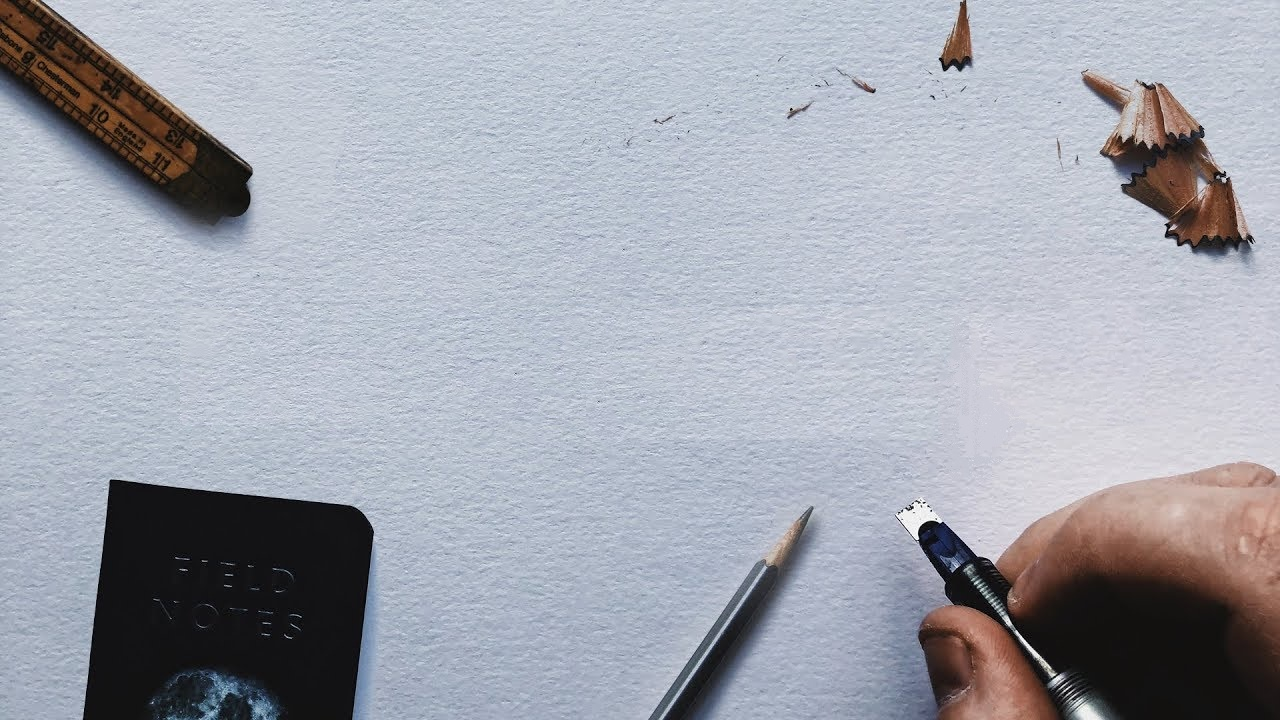
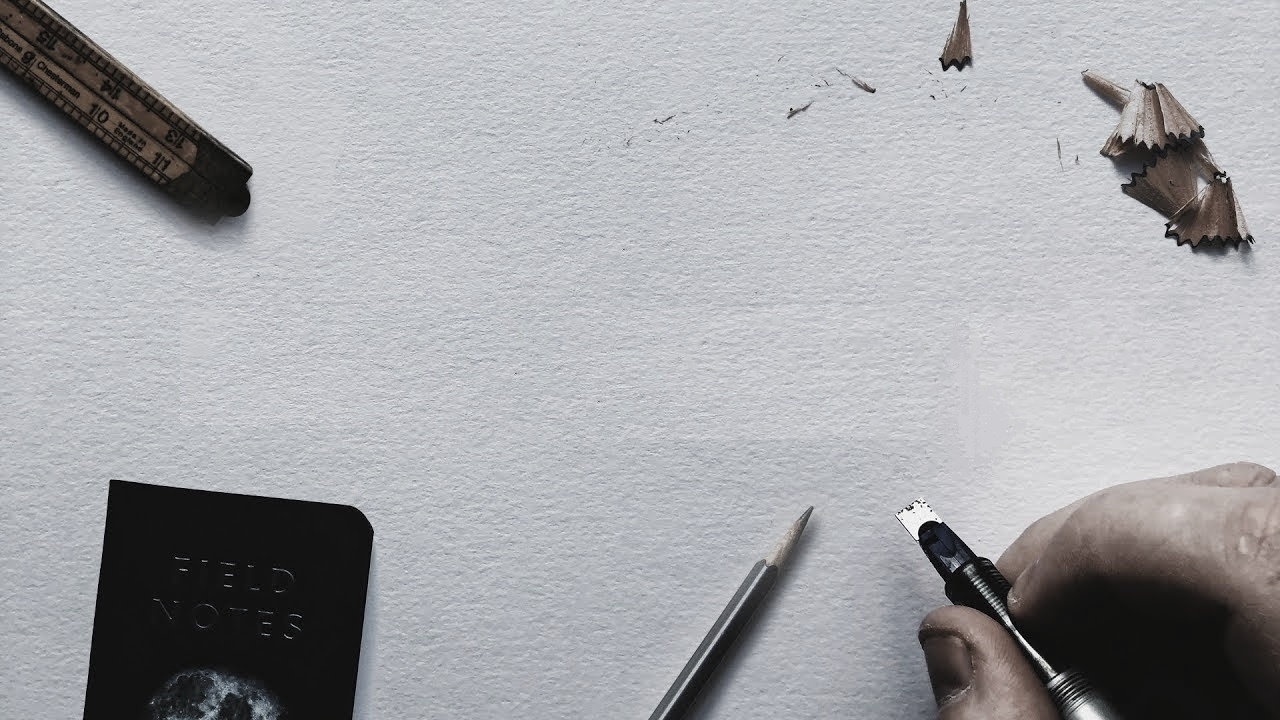
fix: aos

diff --git a/src/component/About/About.js b/src/component/About/About.js
@@ -1,20 +1,23 @@
 import React from 'react';
 import './About.scss';
-import {Divider} from 'antd';
 import ava from './assets/ava.png';
 const About = () => {
   return (
     <div>
       <div id="about" className="about-section flex-column">
-        <Divider orientation="left" className="divider">
-          little about me
-        </Divider>
+        <h2 className="divider">little about me</h2>
         <div className="about-me flex-row">
-          <img className="about-me__ava" src={ava} alt="avatar" />
+          <img
+            className="about-me__ava"
+            src={ava}
+            alt="avatar"
+            data-aos="zoom-out"
+            data-aos-duration="600"
+          />
           <div className="flex-column">
             <div
               className="about-me__text"
-              data-aos="zoom-out-left"
+              data-aos="fade-up"
               data-aos-duration="500">
               <h3>education</h3>I graduated from BNTU with a specialty in
               automated design system faculty of information technologies and
@@ -22,7 +25,7 @@ const About = () => {
             </div>
             <div
               className="about-me__text"
-              data-aos="zoom-out-left"
+              data-aos="fade-down"
               data-aos-duration="500">
               <h3>work</h3> I worked at the United institute of informatic
               problems, in the laboratory of automation of technological

diff --git a/src/component/Projects/Card/Card.scss b/src/component/Projects/Card/Card.scss
@@ -1,27 +1,35 @@
-  div.card {
-    width: 300px;
-    margin-right: 20px;
+.filter {
+  filter: saturate(0.2);
 
-    @media screen and (max-width: 400px) {
-      width: 90%;
-      margin-bottom: 20px;
-    }
-
-    a {
-      color: black;
-    }
-
-    a:hover {
-      color: blue;
-    }
-
-    .ant-card-actions {
-      border-bottom: 2px solid #a7a0a0;
-    }
-
-    &__img {
-      height: 90%;
-    }
-
-
+  &:hover {
+    filter: none;
   }
+}
+
+div.card {
+  width: 300px;
+  margin-right: 20px;
+
+  @media screen and (max-width: 400px) {
+    width: 90%;
+    margin-bottom: 20px;
+  }
+
+  a {
+    color: black;
+  }
+
+  a:hover {
+    color: blue;
+  }
+
+  .ant-card-actions {
+    border-bottom: 2px solid #a7a0a0;
+  }
+
+  &__img {
+    height: 90%;
+  }
+
+
+}

diff --git a/src/component/Projects/Projects.js b/src/component/Projects/Projects.js
@@ -1,6 +1,5 @@
 import React, {Component} from 'react';
 import './Projects.scss';
-import {Divider} from 'antd';
 import Card from './Card/Card.js';
 
 export default class Projects extends Component {
@@ -10,9 +9,7 @@ export default class Projects extends Component {
   render() {
     return (
       <div id="projects" className="flex-column">
-        <Divider orientation="left" className="divider">
-          projects
-        </Divider>
+        <div className="divider">projects</div>
         <div className="projects-section flex-row">
           {this.state.projects.map(project => {
             return <Card key={project.imgName} {...project} />;

diff --git a/src/component/Header/Hello/Hello.scss b/src/component/Header/Hello/Hello.scss
@@ -5,18 +5,23 @@
   margin: auto;
   box-shadow: 0px -10px 10px 15px rgba(0, 0, 0, 0.5),
     inset 0px -7px 15px 0px rgba(0, 0, 0, 0.5);
-  filter: saturate(70%);
 
   .profile-detail {
     margin: 0px;
     margin-top: 200px;
-    margin-bottom: 100px;
+    margin-bottom: 50px;
     width: 80%;
     text-align: center;
     text-shadow: 2px 4px 3px rgba(0, 0, 0, 0.3);
     color: black;
     font-weight: 500;
     -webkit-text-stroke: 0.1px #3a3a3a;
+
+    @media screen and (max-width: 750px) {
+      [data-aos=zoom-out-right] {
+        transform: 0;
+      }
+    }
 
     .name {
       font-size: 2.5vw;

diff --git a/src/component/Header/Navigation/Navigation.scss b/src/component/Header/Navigation/Navigation.scss
@@ -9,6 +9,11 @@
   z-index: 100;
   background: url(../../../assets/images/bg.png);
   box-shadow: 0px -10px 10px 15px rgba(0, 0, 0, 0.5);
+  font-size: 1.7vh;
+
+  @media screen and (max-width: 400px) {
+    margin-right: 10px;
+  }
 
   &>a {
     margin-left: 20px;
@@ -20,10 +25,16 @@
       color: grey;
     }
 
+    &:first-child {
+      @media screen and (max-width: 500px) {
+        margin-left: 20px;
+      }
+    }
+
     &:last-child {
       margin-right: 100px;
 
-      @media screen and (max-width: 400px) {
+      @media screen and (max-width: 500px) {
         margin-right: 10px;
       }
 

diff --git a/src/component/Contacts/Contacts.js b/src/component/Contacts/Contacts.js
@@ -1,6 +1,5 @@
 import React, {Component} from 'react';
 import './Contacts.scss';
-import {Divider} from 'antd';
 import {Form, Input, Button, message} from 'antd';
 import {SendOutlined} from '@ant-design/icons';
 
@@ -67,9 +66,7 @@ export default class Contacts extends Component {
   render() {
     return (
       <div id="contacts" className="contacts-section">
-        <Divider orientation="left" className="divider">
-          contacts
-        </Divider>
+        <div className="divider">contacts</div>
 
         <Form
           ref={this.form}

diff --git a/src/component/Header/Hello/Hello.js b/src/component/Header/Hello/Hello.js
@@ -24,12 +24,12 @@ const Hello = () => {
         </p>
       </div>
       <Button
+        data-aos="zoom-out"
+        data-aos-duration="500"
         className="cv"
         type="link"
         target="_blank"
-        href="https://drive.google.com/open?id=1hkyVRZEgIJPPvPhPVTmjhMJaHwFXb_90"
-        data-aos="zoom-out-left"
-        data-aos-duration="500">
+        href="https://drive.google.com/open?id=1hkyVRZEgIJPPvPhPVTmjhMJaHwFXb_90">
         link to my CV
       </Button>
     </div>

diff --git a/src/component/Projects/Projects.scss b/src/component/Projects/Projects.scss
@@ -1,10 +1,14 @@
 #projects {
   width: 90%;
   margin: auto;
-  background: no-repeat url(../../assets/images/image5.jpg);
+  align-items: flex-start;
+
+  @media screen and (max-width: 750px) {
+    width: 100%;
+  }
 
   box-shadow: 0px -10px 10px 15px rgba(0, 0, 0, 0.5),
-    inset 0px -7px 15px 0px rgba(0, 0, 0, 0.5);
+  inset 0px -7px 15px 0px rgba(0, 0, 0, 0.5);
 }
 
 .projects-section {

diff --git a/src/component/About/About.scss b/src/component/About/About.scss
@@ -1,9 +1,13 @@
 .about-section {
-  background: center no-repeat url(../../assets/images/image4.jpg);
   width: 90%;
   margin: auto;
   box-shadow: 0px -10px 10px 15px rgba(0, 0, 0, 0.5),
     inset 0px -7px 15px 0px rgba(0, 0, 0, 0.5);
+  align-items: flex-start;
+
+  @media screen and (max-width: 750px) {
+    width: 100%;
+  }
 
   .about-me {
     justify-content: flex-start;

diff --git a/src/component/App.scss b/src/component/App.scss
@@ -2,13 +2,12 @@ div.app {
   align-items: initial;
   background: url(../assets/images/bg.png);
 
-  div.divider {
-    color: #e1eaf9;
-    width: 10px;
+  .divider {
+    color: #9dbff7;
     font-size: 30px;
-    margin: 0;
-    margin-top: 50px;
-    top: 0;
+    margin-top: 15px;
+    margin-left: 20px;
+    text-decoration: underline;
   }
 }
 

diff --git a/src/component/Projects/Card/Card.js b/src/component/Projects/Card/Card.js
@@ -10,7 +10,7 @@ const Project = props => {
     // FIXME:  use a function instead of 'a' tag
     // https://stackoverflow.com/questions/42561137/link-cannot-appear-as-a-descendant-of-a-link
     <a
-      componentclass="span"
+      className="filter"
       href={props.appLink}
       target="_blank"
       rel="noopener noreferrer">

diff --git a/src/component/Header/index.js b/src/component/Header/index.js
@@ -2,11 +2,11 @@ import React from 'react';
 import Navigation from './Navigation/Navigation.js';
 import Hello from './Hello/Hello.js';
 
-export default () => {
+export default (props) => {
   return (
     <div>
       <Navigation />
-      <Hello />
+      <Hello {...props}/>
     </div>
   );
 };
